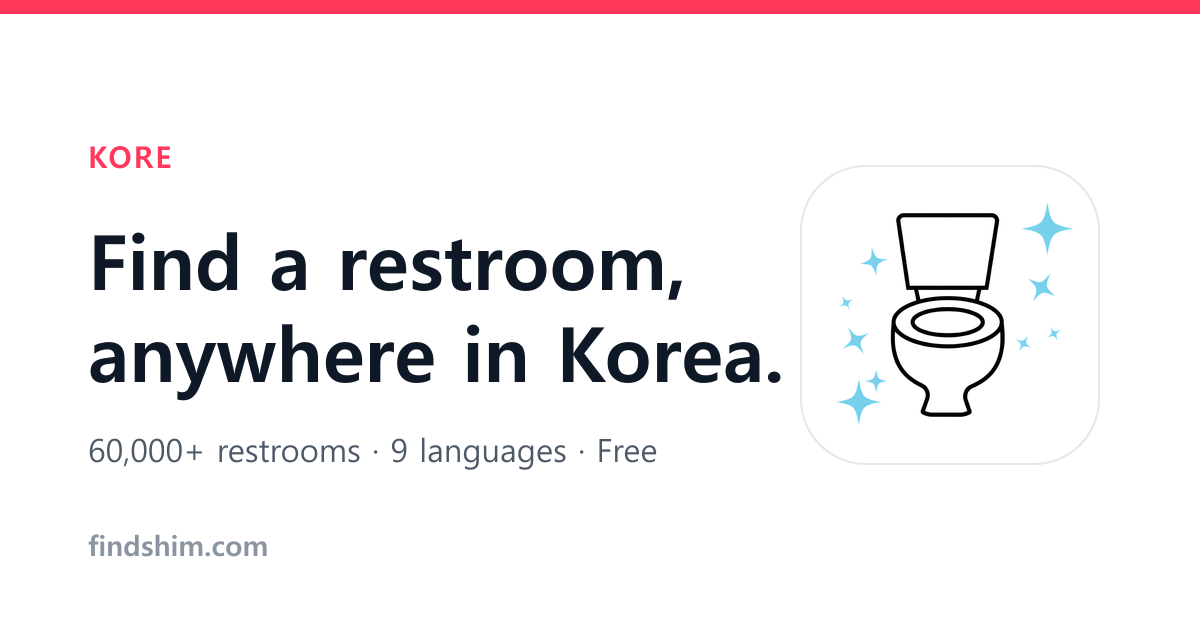
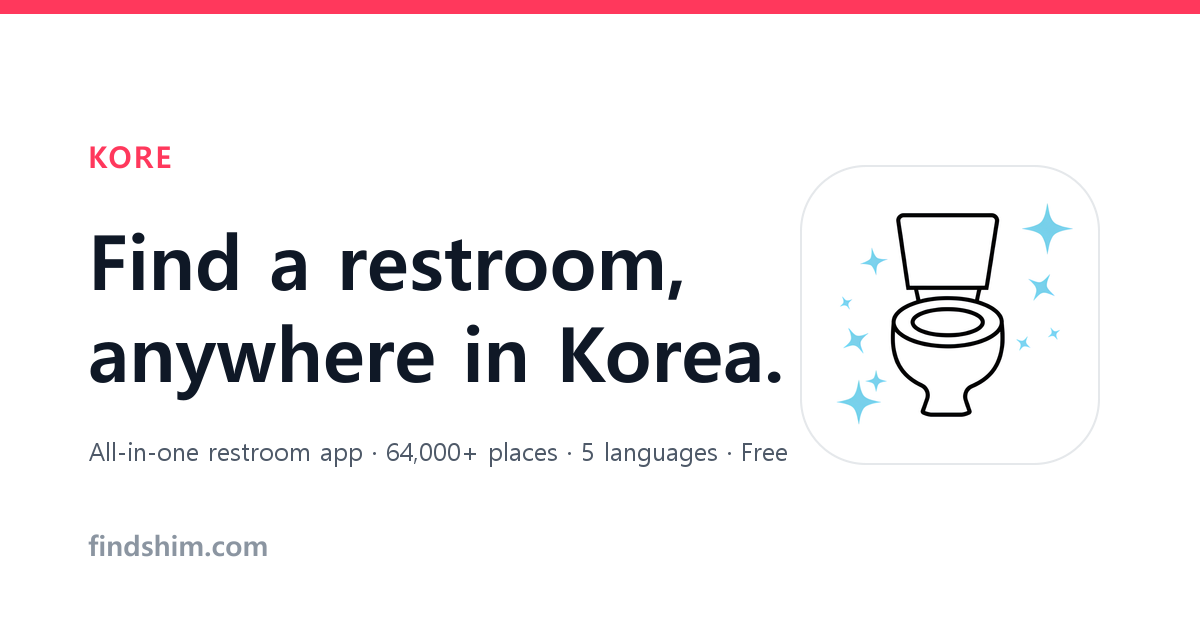
스크린샷 비율 수정, 소개 문구를 '한국 화장실 종합 앱'으로 변경

Changed region(s): [[0.0617, 0.6937, 0.5858, 0.754], [0.6167, 0.6937, 0.6475, 0.7238]]

diff --git a/index.html b/index.html
@@ -3,14 +3,14 @@
 <head>
   <meta charset="UTF-8" />
   <meta name="viewport" content="width=device-width, initial-scale=1.0" />
-  <title>KORE — 전국 화장실 지도</title>
-  <meta name="description" content="급할 때 가장 가까운 화장실을 3초 만에. 전국 공중화장실·도서관·카페 6만 4천여 곳을 한 지도에 모은 무료 앱 KORE. 청결도, 도보 길 찾기, 후기까지 5개 언어로." />
+  <title>KORE — 한국 화장실 종합 앱</title>
+  <meta name="description" content="급할 때 가장 가까운 화장실을 3초 만에. 전국 공중화장실·도서관·카페 6만 4천여 곳의 위치와 청결도, 도보 길 찾기, 후기, 랭킹까지 한 앱에 담은 한국 화장실 종합 앱 KORE. 5개 언어, 무료." />
 
   <!-- Open Graph / social -->
   <meta property="og:type" content="website" />
   <meta property="og:site_name" content="KORE" />
-  <meta property="og:title" content="KORE — 전국 화장실 지도" />
-  <meta property="og:description" content="급할 때 가장 가까운 화장실을 3초 만에. 전국 6만 4천여 곳을 한 지도에. iOS·안드로이드 무료." />
+  <meta property="og:title" content="KORE — 한국 화장실 종합 앱" />
+  <meta property="og:description" content="찾기부터 청결도·길 찾기·후기·랭킹까지, 한국 화장실의 모든 것을 한 앱에. 전국 6만 4천여 곳. iOS·안드로이드 무료." />
   <meta property="og:url" content="https://findshim.com/" />
   <meta property="og:image" content="https://findshim.com/assets/og-image.png" />
   <meta property="og:locale" content="ko_KR" />
@@ -59,10 +59,10 @@
     <section class="hero" id="top">
       <div class="container hero-inner">
         <div class="hero-copy">
-          <span class="eyebrow">🚻 전국 6만 4천여 곳 · 5개 언어 · 무료</span>
+          <span class="eyebrow">🚻 한국 화장실 종합 앱 · 전국 6만 4천여 곳 · 무료</span>
           <h1>급할 때,<br /><span class="accent">가장 가까운 화장실.</span></h1>
           <p class="lead">
-            공중화장실부터 도서관, 카페까지. 전국 화장실을 한 지도에 모았습니다.
+            찾기, 청결도, 길 찾기, 후기, 랭킹까지. 화장실에 필요한 모든 걸 앱 하나에 담았습니다.
             앱을 켜면 내 위치와 가장 가까운 화장실이 바로 뜹니다.
           </p>
 
@@ -105,7 +105,7 @@
     <section class="section-tight bg-soft">
       <div class="container">
         <div class="stats">
-          <div class="stat" data-reveal><b>64,000+</b><span>지도에 찍힌 화장실</span></div>
+          <div class="stat" data-reveal><b>64,000+</b><span>전국 화장실 정보</span></div>
           <div class="stat" data-reveal><b>5개</b><span>지원 언어</span></div>
           <div class="stat" data-reveal><b>7종</b><span>미니게임</span></div>
           <div class="stat" data-reveal><b>0원</b><span>무료 다운로드 · 가입 없이 바로</span></div>
@@ -124,8 +124,8 @@
           <span class="kicker">데이터</span>
           <h2>화장실 하나를 찾으려고<br />앱 네 개를 켤 필요는 없으니까</h2>
           <p>
-            정부 공공데이터에 도서관, 카페, 직접 확인한 화장실까지 한 지도에 얹었습니다.
-            전부 앱에 담겨 있어서, 지도를 열면 검색 없이 바로 뜹니다.
+            정부 공공데이터에 도서관, 카페, 직접 확인한 화장실까지 한 앱에 모았습니다.
+            전부 앱에 담겨 있어서, 켜자마자 검색 없이 바로 뜹니다.
           </p>
         </div>
 
@@ -466,7 +466,7 @@
             <img src="assets/favicon.png" alt="" />
             <span>KORE</span>
           </a>
-          <p>전국 화장실을 지도 한 장에. 급할 때, 가장 가까운 곳으로.</p>
+          <p>한국 화장실의 모든 것을 앱 하나에. 급할 때, 가장 가까운 곳으로.</p>
         </div>
         <div class="footer-cols">
           <div class="footer-col">

diff --git a/en/index.html b/en/index.html
@@ -3,14 +3,14 @@
 <head>
   <meta charset="UTF-8" />
   <meta name="viewport" content="width=device-width, initial-scale=1.0" />
-  <title>KORE — Find a restroom anywhere in Korea</title>
-  <meta name="description" content="64,000+ public restrooms, libraries and cafés across Korea on one map — in 5 languages. Cleanliness ratings, walking routes and reviews. Free on iOS and Android." />
+  <title>KORE — The all-in-one restroom app for Korea</title>
+  <meta name="description" content="The all-in-one restroom app for Korea: 64,000+ public restrooms, libraries and cafés with cleanliness ratings, walking routes, reviews and rankings — in 5 languages. Free on iOS and Android." />
 
   <!-- Open Graph / social -->
   <meta property="og:type" content="website" />
   <meta property="og:site_name" content="KORE" />
-  <meta property="og:title" content="KORE — Find a restroom anywhere in Korea" />
-  <meta property="og:description" content="64,000+ restrooms across Korea on one map, in your language. Free on iOS and Android." />
+  <meta property="og:title" content="KORE — The all-in-one restroom app for Korea" />
+  <meta property="og:description" content="Everything about restrooms in Korea, in one app and in your language. Free on iOS and Android." />
   <meta property="og:url" content="https://findshim.com/en/" />
   <meta property="og:image" content="https://findshim.com/assets/og-image-en.png" />
   <meta property="og:locale" content="en_US" />
@@ -58,11 +58,11 @@
     <section class="hero" id="top">
       <div class="container hero-inner">
         <div class="hero-copy">
-          <span class="eyebrow">🚻 64,000+ places · 5 languages · Free</span>
+          <span class="eyebrow">🚻 All-in-one restroom app · 64,000+ places · Free</span>
           <h1>Find a restroom,<br /><span class="accent">anywhere in Korea.</span></h1>
           <p class="lead">
-            Public restrooms, libraries and cafés — all on one map, in your own
-            language. Open the app and you see where you are and what's closest.
+            Find the closest one, see how clean it is, walk there, leave a review —
+            all in one app, in your own language. Open it and you see what's nearest.
           </p>
 
           <!-- Store buttons: live App Store / Google Play links. Keep these in
@@ -105,7 +105,7 @@
     <section class="section-tight bg-soft">
       <div class="container">
         <div class="stats">
-          <div class="stat" data-reveal><b>64,000+</b><span>restrooms on the map</span></div>
+          <div class="stat" data-reveal><b>64,000+</b><span>restrooms in the app</span></div>
           <div class="stat" data-reveal><b>5</b><span>languages</span></div>
           <div class="stat" data-reveal><b>7</b><span>minigames</span></div>
           <div class="stat" data-reveal><b>₩0</b><span>free download, no sign-up</span></div>
@@ -468,7 +468,7 @@
             <img src="../assets/favicon.png" alt="" />
             <span>KORE</span>
           </a>
-          <p>Every restroom in Korea on one map — in your language.</p>
+          <p>Everything about restrooms in Korea, in one app — in your language.</p>
         </div>
         <div class="footer-cols">
           <div class="footer-col">

diff --git a/assets/styles.css b/assets/styles.css
@@ -371,10 +371,8 @@ section { position: relative; }
 
 /* --------------------------------------------------------------------------
    Phone frames — real screenshots of the app in a CSS bezel.
-   The PNGs under assets/shots/ are captures of the app's own screens, built by
-   tools/screenshots/build.js: it reassembles each screen from ../app (the theme
-   tokens, the Ionicons font, the ko/en strings) and shoots it at 390x844 @2x.
-   Re-run that script when a screen changes; only the frame here is CSS.
+   The PNGs under assets/shots/ are real iPhone captures of the app, fitted to
+   390x844 @2x (780x1688). Only the frame here is CSS.
    -------------------------------------------------------------------------- */
 
 .device {
@@ -398,10 +396,13 @@ section { position: relative; }
 }
 
 /* The shot is 390x844. aspect-ratio holds its box before the file has loaded,
-   so the frame never resizes under the reader mid-scroll. */
+   so the frame never resizes under the reader mid-scroll. height: auto is what
+   lets it apply — the <img height="844"> attribute otherwise pins the height at
+   844px while the width shrinks to the bezel, stretching the phone vertically. */
 .shot {
   display: block;
   width: 100%;
+  height: auto;
   aspect-ratio: 390 / 844;
   border-radius: 36px;
   background: var(--bg-soft);

diff --git a/privacy/index.html b/privacy/index.html
@@ -55,7 +55,7 @@
     <article class="prose">
       <p class="policy-title">KORE 개인정보처리방침</p>
       <p>
-        KORE(이하 "앱")는 한국의 화장실을 지도에서 찾아주는 앱입니다. 이 방침은 앱이
+        KORE(이하 "앱")는 화장실 찾기와 길 안내, 후기와 제보를 한곳에 모은 한국 화장실 종합 앱입니다. 이 방침은 앱이
         어떤 정보를 수집하고, 무엇을 위해 쓰며, 어떻게 지울 수 있는지를 설명합니다.
       </p>
 

diff --git a/404.html b/404.html
@@ -21,7 +21,7 @@
         길을 잘못 들었습니다.
       </h1>
       <p style="font-size:18px;color:var(--ink-soft);margin:0 0 32px;font-weight:500;">
-        찾으시는 페이지가 없습니다. 지도로 다시 안내해 드릴게요.
+        찾으시는 페이지가 없습니다. 홈으로 다시 안내해 드릴게요.
       </p>
       <div class="store-buttons" style="justify-content:center;">
         <a class="btn-pill" href="/">홈으로 가기</a>

diff --git a/en/privacy/index.html b/en/privacy/index.html
@@ -55,7 +55,7 @@
     <article class="prose">
       <p class="policy-title">KORE Privacy Policy</p>
       <p>
-        KORE ("the app") is an app for finding restrooms in Korea on a map. This policy
+        KORE ("the app") is an all-in-one restroom app for Korea — finding restrooms, directions, reviews and submissions in one place. This policy
         explains what information the app collects, what it is used for, and how you can delete it.
       </p>
 

diff --git a/CLAUDE.md b/CLAUDE.md
@@ -7,8 +7,8 @@ This file provides guidance to Claude Code (claude.ai/code) when working with co
 The marketing/legal site for **KORE** (`findshim.com`) — a static HTML/CSS site
 introducing the KORE app and hosting the `/privacy` and `/support` pages that
 App Store and AdMob review require. The KORE app source itself lives in the
-sibling `../app` folder (an Expo React Native app for finding public toilets in
-Korea); read `../app/CLAUDE.md` and `../app/PRIVACY_POLICY.md` when site copy
+sibling `../app` folder (an Expo React Native app — an all-in-one restroom app
+for Korea, not just a toilet map); read `../app/CLAUDE.md` and `../app/PRIVACY_POLICY.md` when site copy
 needs to stay in sync with the app.
 
 ## No build step

diff --git a/README.md b/README.md
@@ -1,7 +1,8 @@
 # KORE — findshim.com
 
-Marketing site for **KORE**, the app that helps people find public toilets
-anywhere in Korea, in their own language.
+Marketing site for **KORE**, the all-in-one restroom app for Korea —
+finding, rating, reviewing and adding toilets anywhere in the country, in
+the user's own language.
 
 Static HTML/CSS — no build step. Deployed via **GitHub Pages**.
 
